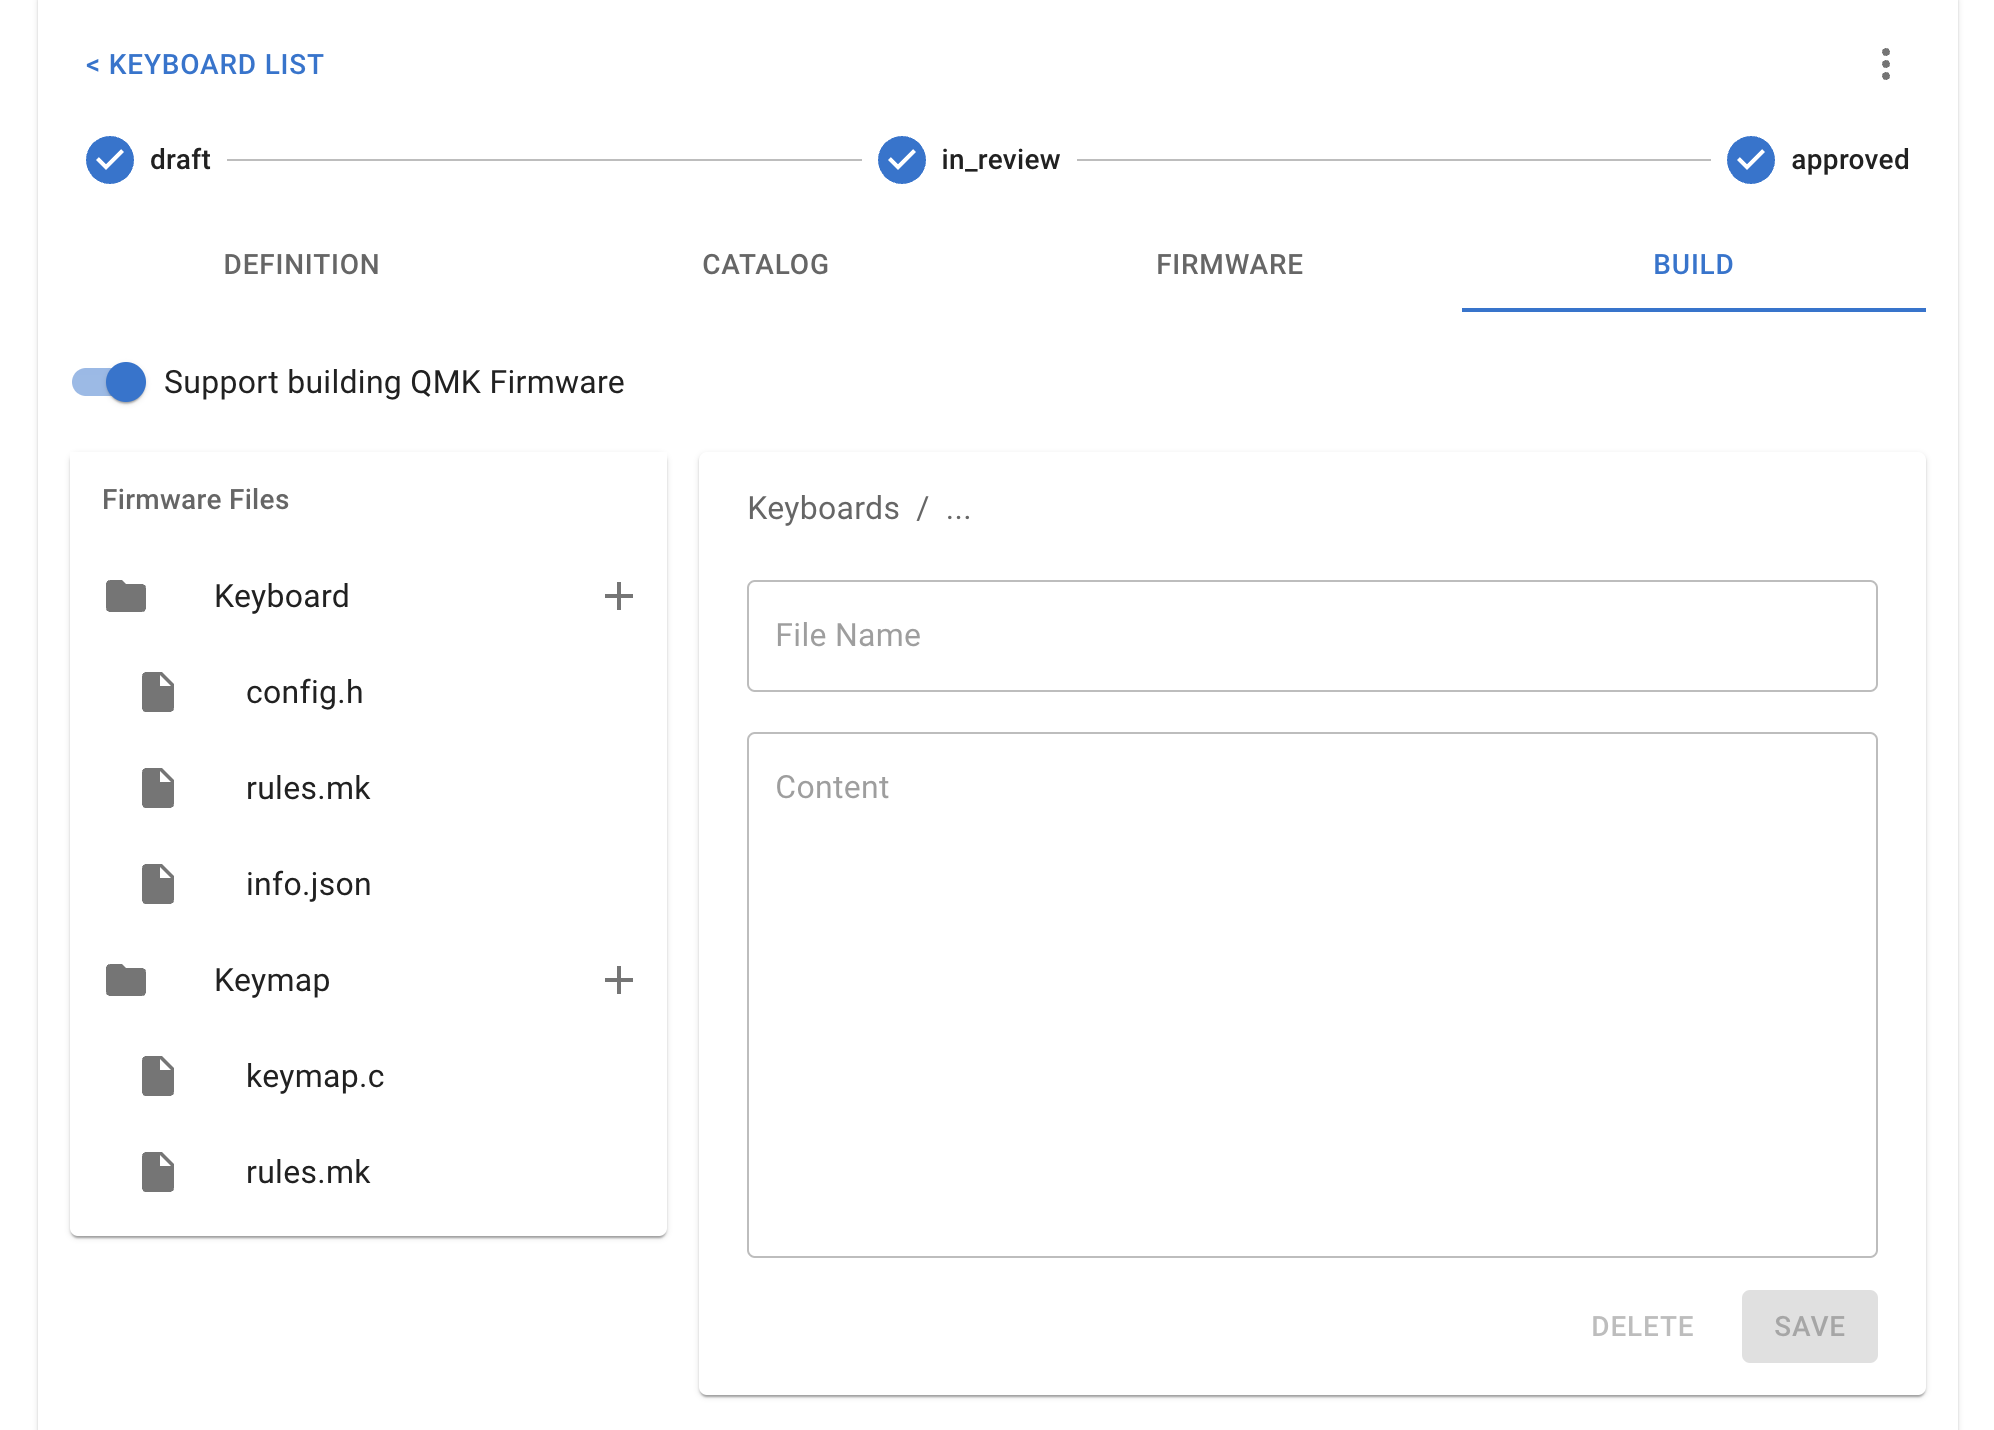
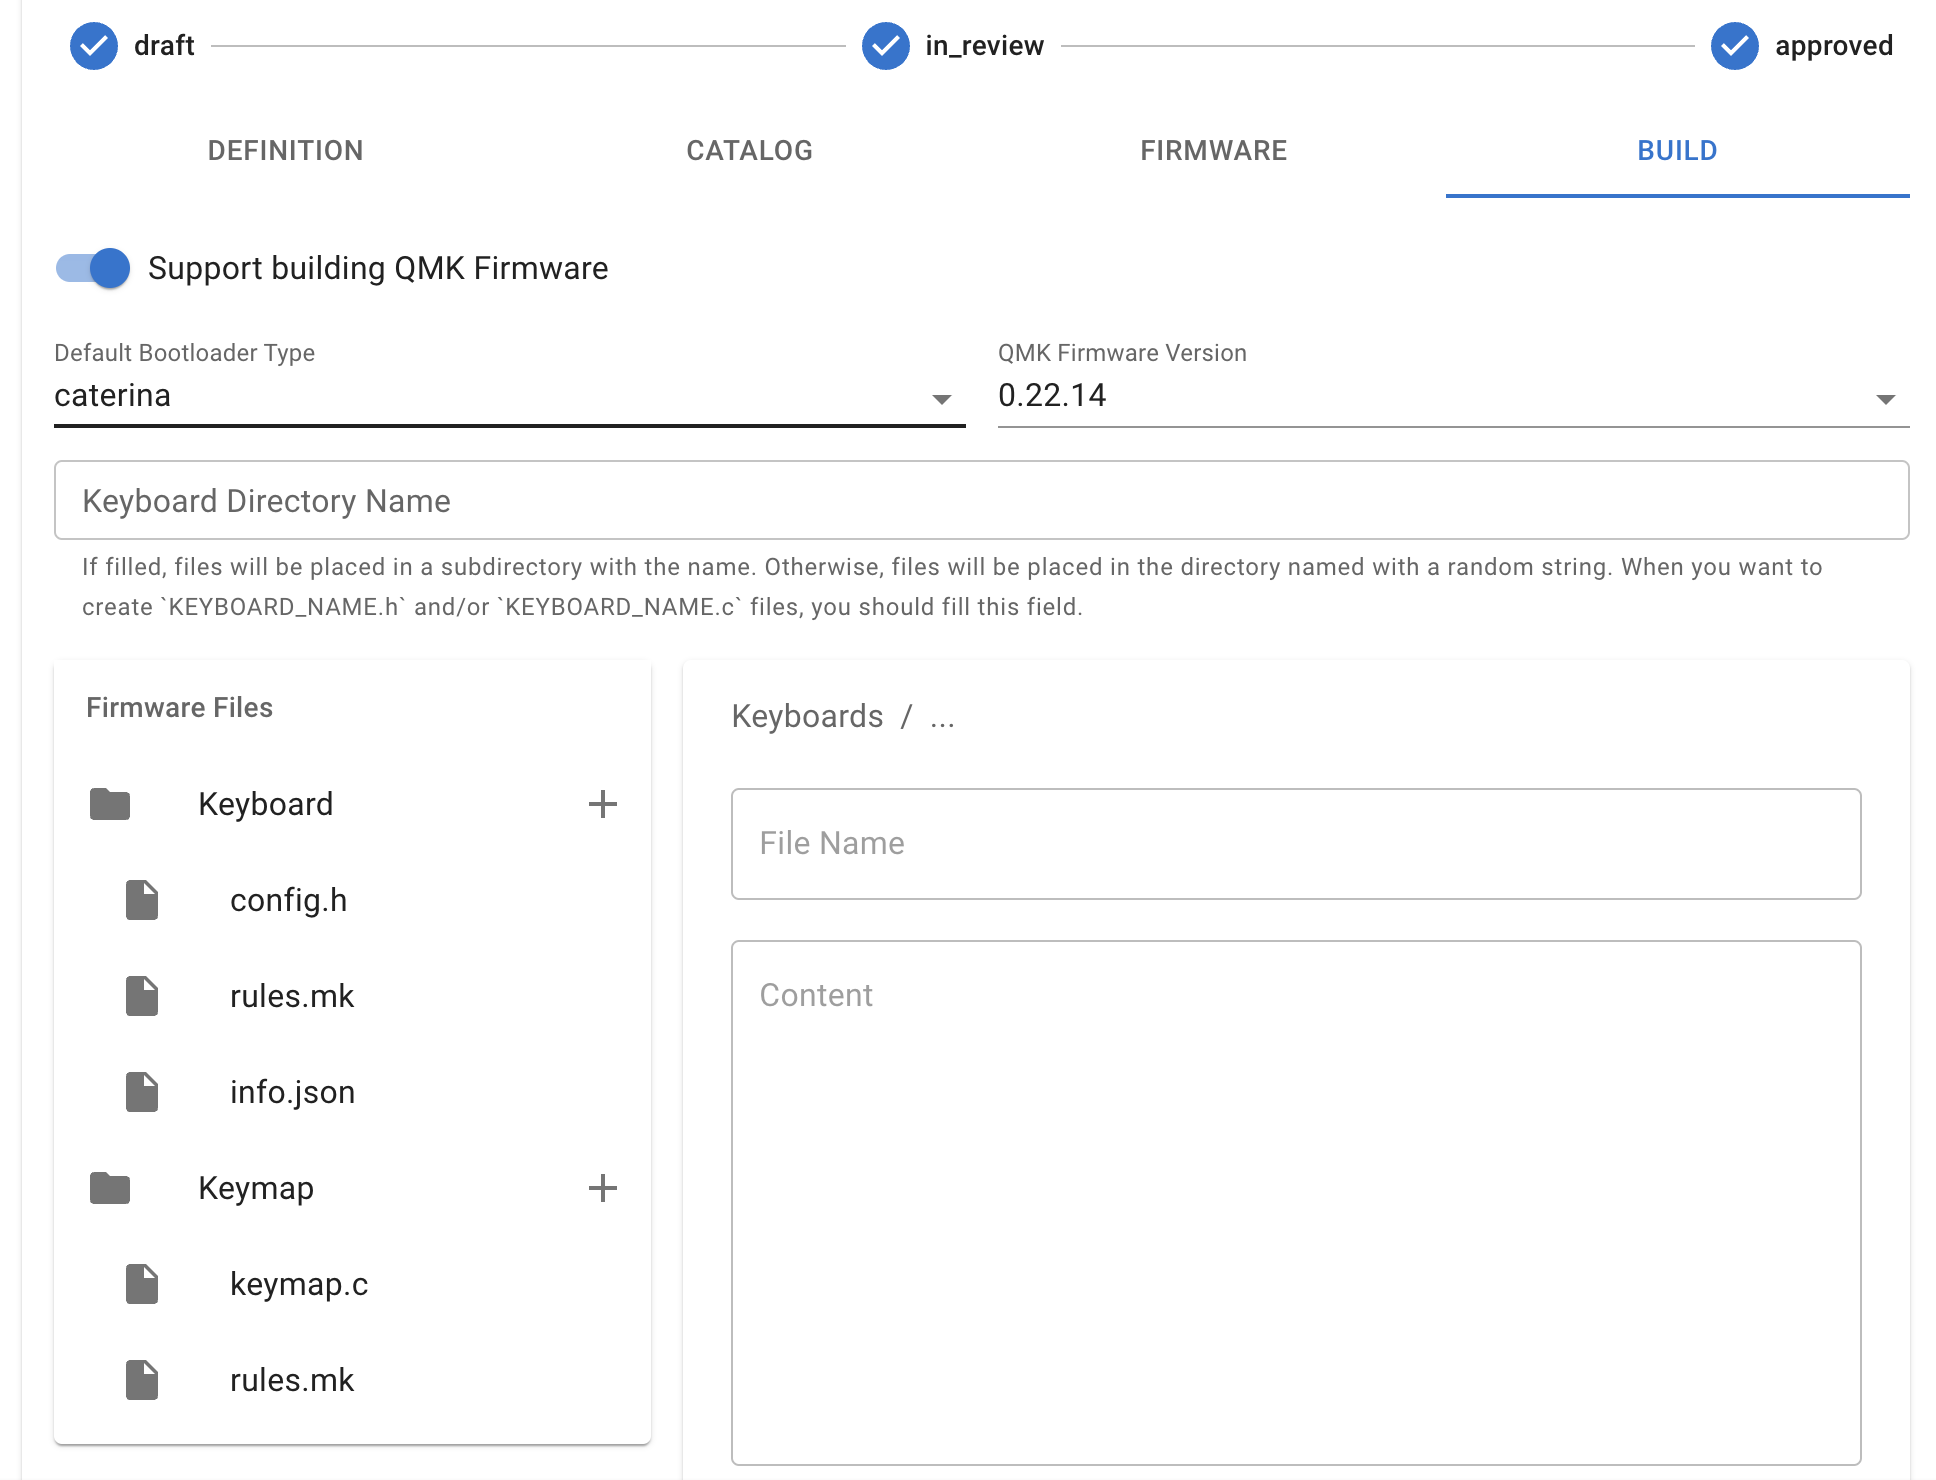
Update the document.

diff --git a/src/components/documents/build/Build.tsx b/src/components/documents/build/Build.tsx
@@ -75,6 +75,15 @@ export default function Build() {
         <Typography variant="body1" gutterBottom={true}>
           Edit them, then click the &quot;SAVE&quot; button to save them.
         </Typography>
+        <Typography variant="body1" gutterBottom={true}>
+          If it is necessary to register `KEYBOARD_DIRECTORY_NAME.h` and/or
+          `KEYBOARD_DIRECTORY_NAME.c` files, fill in the KEYBOARD_DIRECTORY_NAME
+          to the keyboard directory name. If it is necessary to register
+          `KEYBOARD_DIRECTORY_NAME.h` and/or `KEYBOARD_DIRECTORY_NAME.c` files,
+          fill the KEYBOARD_DIRECTORY_NAME string in the the keyboard directory
+          name. For example, if `lunakey_mini.h` and `lunakey.c` files are
+          needed, fill `lunakey_mini` in the keyboard directory name field.
+        </Typography>
         <Typography variant="h4">Custom parameters</Typography>
         <Typography variant="body1" gutterBottom={true}>
           Each firmware file can have custom parameters. The custom parameter is
